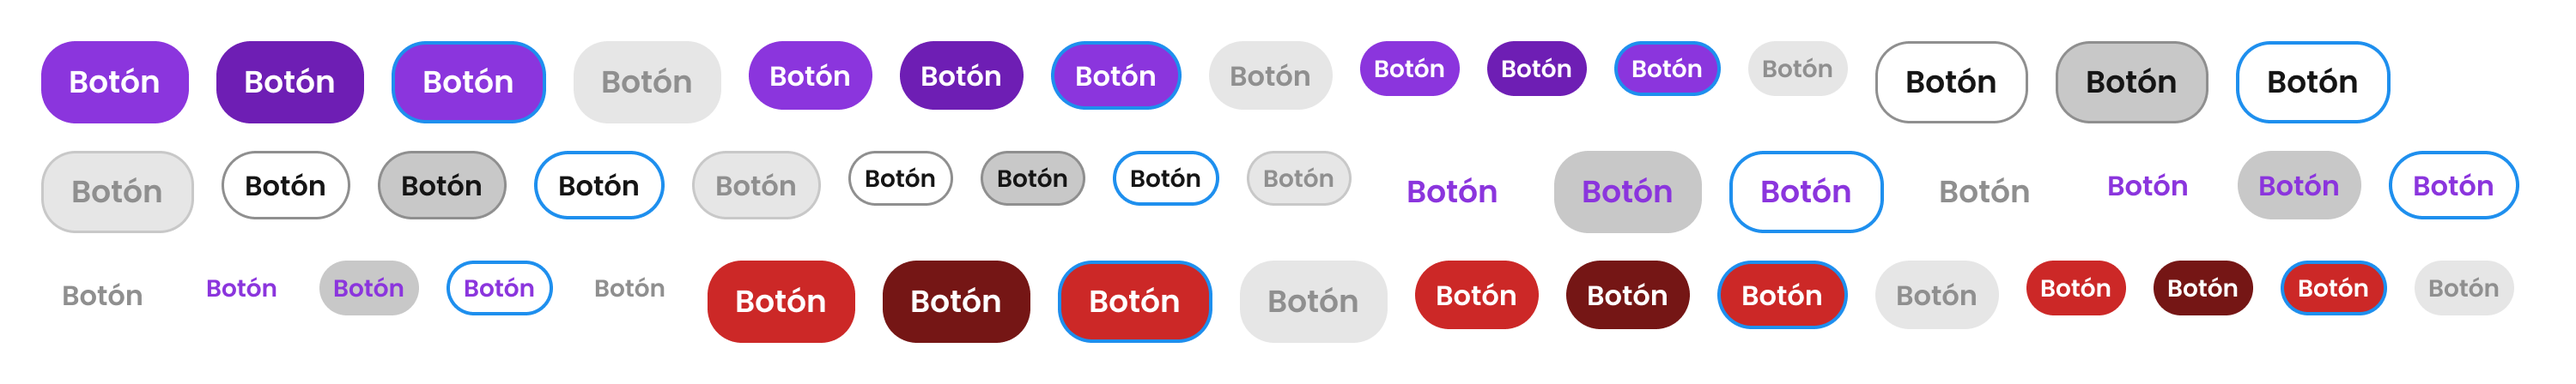
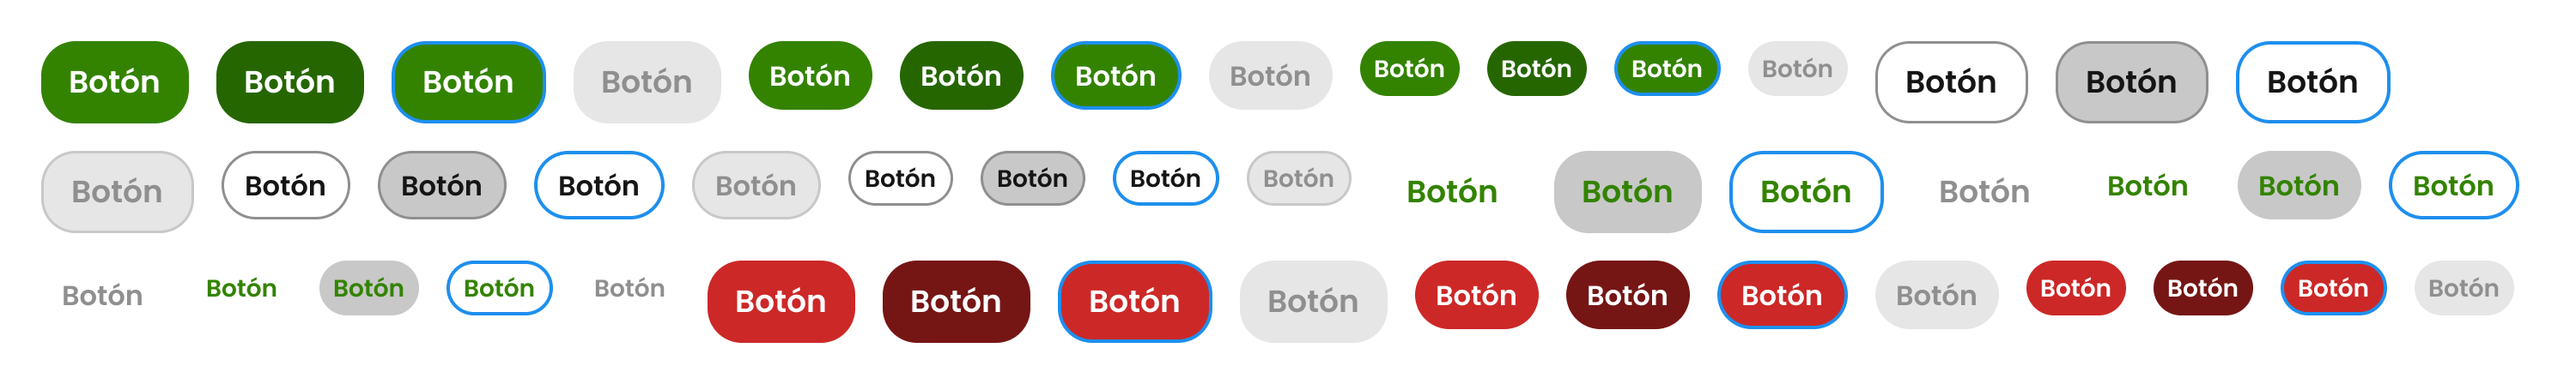
DocSite v1.0.3: Prueba MVP 1
Prueba de actualización: cambio del color principal

diff --git a/entrada/DsTokens.kt b/entrada/DsTokens.kt
@@ -7,15 +7,15 @@ import androidx.compose.ui.unit.dp
 import androidx.compose.ui.unit.sp
 
 object DsTokens {
-    val brand100 = Color(0xFFF4EFFF)
-    val brand200 = Color(0xFFE7DAFF)
-    val brand300 = Color(0xFFD6BCFF)
-    val brand400 = Color(0xFFBE8FFF)
-    val brand500 = Color(0xFFA95AFF)
-    val brand600 = Color(0xFF8B35DD)
-    val brand700 = Color(0xFF6E1EB4)
-    val brand800 = Color(0xFF4D0E82)
-    val brand900 = Color(0xFF310456)
+    val brand100 = Color(0xFFE7F8E1)
+    val brand200 = Color(0xFFCCEDC1)
+    val brand300 = Color(0xFFA5DD92)
+    val brand400 = Color(0xFF73C256)
+    val brand500 = Color(0xFF46A511)
+    val brand600 = Color(0xFF338300)
+    val brand700 = Color(0xFF266600)
+    val brand800 = Color(0xFF184700)
+    val brand900 = Color(0xFF0C2C00)
     val blue100 = Color(0xFFE5F0FC)
     val blue200 = Color(0xFFCAE1FA)
     val blue300 = Color(0xFF9AC9FA)
@@ -138,10 +138,10 @@ object DsTokens {
         val contentSecondaryInverse = Color(0xFFC8C8C8)
         val contentTertiaryInverse = Color(0xFF8F8F8F)
         val contentDisabled = Color(0xFF8F8F8F)
-        val contentBrand = Color(0xFF8B35DD)
-        val contentLink = Color(0xFF8B35DD)
-        val contentLinkHover = Color(0xFF6E1EB4)
-        val contentLinkPressed = Color(0xFF4D0E82)
+        val contentBrand = Color(0xFF338300)
+        val contentLink = Color(0xFF338300)
+        val contentLinkHover = Color(0xFF266600)
+        val contentLinkPressed = Color(0xFF184700)
         val contentNotice = Color(0xFF864303)
         val contentNoticeBold = Color(0xFF633001)
         val contentNegative = Color(0xFFCC2827)
@@ -153,12 +153,12 @@ object DsTokens {
         val backgroundPrimary = Color(0xFFFFFFFF)
         val backgroundHover = Color(0xFFE6E6E6)
         val backgroundPressed = Color(0xFFC8C8C8)
-        val backgroundSelected = Color(0xFFF4EFFF)
+        val backgroundSelected = Color(0xFFE7F8E1)
         val backgroundDisabled = Color(0xFFE6E6E6)
         val backgroundInverse = Color(0xFF151515)
-        val backgroundBrand = Color(0xFF8B35DD)
-        val backgroundBrandHover = Color(0xFF8B35DD)
-        val backgroundBrandPressed = Color(0xFF6E1EB4)
+        val backgroundBrand = Color(0xFF338300)
+        val backgroundBrandHover = Color(0xFF338300)
+        val backgroundBrandPressed = Color(0xFF266600)
         val backgroundInfo = Color(0xFF0574C7)
         val backgroundInfoSubtle = Color(0xFFE5F0FC)
         val backgroundNotice = Color(0xFFD36D02)
@@ -173,7 +173,7 @@ object DsTokens {
         val borderSecondary = Color(0xFFC8C8C8)
         val borderTertiary = Color(0xFFE6E6E6)
         val borderDisabled = Color(0xFFC8C8C8)
-        val borderBrand = Color(0xFFA95AFF)
+        val borderBrand = Color(0xFF46A511)
         val borderInverse = Color(0xFF424242)
         val borderFocus = Color(0xFF1E8FEE)
         val borderInfo = Color(0xFF1E8FEE)
@@ -200,10 +200,10 @@ object DsTokens {
         val contentSecondaryInverse = Color(0xFF5A5A5A)
         val contentTertiaryInverse = Color(0xFF676767)
         val contentDisabled = Color(0xFF5A5A5A)
-        val contentBrand = Color(0xFFD6BCFF)
-        val contentLink = Color(0xFFD6BCFF)
-        val contentLinkHover = Color(0xFFE7DAFF)
-        val contentLinkPressed = Color(0xFFF4EFFF)
+        val contentBrand = Color(0xFFA5DD92)
+        val contentLink = Color(0xFFA5DD92)
+        val contentLinkHover = Color(0xFFCCEDC1)
+        val contentLinkPressed = Color(0xFFE7F8E1)
         val contentNotice = Color(0xFFF0B68F)
         val contentNoticeBold = Color(0xFFF5D7C4)
         val contentNegative = Color(0xFFFEABA1)
@@ -215,12 +215,12 @@ object DsTokens {
         val backgroundPrimary = Color(0xFF0B0B0B)
         val backgroundHover = Color(0xFF151515)
         val backgroundPressed = Color(0xFF2A2A2A)
-        val backgroundSelected = Color(0xFF310456)
+        val backgroundSelected = Color(0xFF0C2C00)
         val backgroundDisabled = Color(0xFF1F1F1F)
         val backgroundInverse = Color(0xFFF5F5F5)
-        val backgroundBrand = Color(0xFFBE8FFF)
-        val backgroundBrandHover = Color(0xFFD6BCFF)
-        val backgroundBrandPressed = Color(0xFFE7DAFF)
+        val backgroundBrand = Color(0xFF73C256)
+        val backgroundBrandHover = Color(0xFFA5DD92)
+        val backgroundBrandPressed = Color(0xFFCCEDC1)
         val backgroundInfo = Color(0xFF5FADF9)
         val backgroundInfoSubtle = Color(0xFF022A4D)
         val backgroundNotice = Color(0xFFE88F4C)
@@ -235,7 +235,7 @@ object DsTokens {
         val borderSecondary = Color(0xFF2A2A2A)
         val borderTertiary = Color(0xFF1F1F1F)
         val borderDisabled = Color(0xFF2A2A2A)
-        val borderBrand = Color(0xFFBE8FFF)
+        val borderBrand = Color(0xFF73C256)
         val borderInverse = Color(0xFFABABAB)
         val borderFocus = Color(0xFF5FADF9)
         val borderInfo = Color(0xFF5FADF9)

diff --git a/entrada/DSTokens.swift b/entrada/DSTokens.swift
@@ -18,15 +18,15 @@ extension Color {
 
 // Colores primitivos
 extension Color {
-    public static let brand100 = Color(argb: 0xFFF4EFFF)
-    public static let brand200 = Color(argb: 0xFFE7DAFF)
-    public static let brand300 = Color(argb: 0xFFD6BCFF)
-    public static let brand400 = Color(argb: 0xFFBE8FFF)
-    public static let brand500 = Color(argb: 0xFFA95AFF)
-    public static let brand600 = Color(argb: 0xFF8B35DD)
-    public static let brand700 = Color(argb: 0xFF6E1EB4)
-    public static let brand800 = Color(argb: 0xFF4D0E82)
-    public static let brand900 = Color(argb: 0xFF310456)
+    public static let brand100 = Color(argb: 0xFFE7F8E1)
+    public static let brand200 = Color(argb: 0xFFCCEDC1)
+    public static let brand300 = Color(argb: 0xFFA5DD92)
+    public static let brand400 = Color(argb: 0xFF73C256)
+    public static let brand500 = Color(argb: 0xFF46A511)
+    public static let brand600 = Color(argb: 0xFF338300)
+    public static let brand700 = Color(argb: 0xFF266600)
+    public static let brand800 = Color(argb: 0xFF184700)
+    public static let brand900 = Color(argb: 0xFF0C2C00)
     public static let blue100 = Color(argb: 0xFFE5F0FC)
     public static let blue200 = Color(argb: 0xFFCAE1FA)
     public static let blue300 = Color(argb: 0xFF9AC9FA)
@@ -151,10 +151,10 @@ extension Color {
     public static let contentSecondaryInverse = Color(light: 0xFFC8C8C8, dark: 0xFF5A5A5A)
     public static let contentTertiaryInverse = Color(light: 0xFF8F8F8F, dark: 0xFF676767)
     public static let contentDisabled = Color(light: 0xFF8F8F8F, dark: 0xFF5A5A5A)
-    public static let contentBrand = Color(light: 0xFF8B35DD, dark: 0xFFD6BCFF)
-    public static let contentLink = Color(light: 0xFF8B35DD, dark: 0xFFD6BCFF)
-    public static let contentLinkHover = Color(light: 0xFF6E1EB4, dark: 0xFFE7DAFF)
-    public static let contentLinkPressed = Color(light: 0xFF4D0E82, dark: 0xFFF4EFFF)
+    public static let contentBrand = Color(light: 0xFF338300, dark: 0xFFA5DD92)
+    public static let contentLink = Color(light: 0xFF338300, dark: 0xFFA5DD92)
+    public static let contentLinkHover = Color(light: 0xFF266600, dark: 0xFFCCEDC1)
+    public static let contentLinkPressed = Color(light: 0xFF184700, dark: 0xFFE7F8E1)
     public static let contentNotice = Color(light: 0xFF864303, dark: 0xFFF0B68F)
     public static let contentNoticeBold = Color(light: 0xFF633001, dark: 0xFFF5D7C4)
     public static let contentNegative = Color(light: 0xFFCC2827, dark: 0xFFFEABA1)
@@ -166,12 +166,12 @@ extension Color {
     public static let backgroundPrimary = Color(light: 0xFFFFFFFF, dark: 0xFF0B0B0B)
     public static let backgroundHover = Color(light: 0xFFE6E6E6, dark: 0xFF151515)
     public static let backgroundPressed = Color(light: 0xFFC8C8C8, dark: 0xFF2A2A2A)
-    public static let backgroundSelected = Color(light: 0xFFF4EFFF, dark: 0xFF310456)
+    public static let backgroundSelected = Color(light: 0xFFE7F8E1, dark: 0xFF0C2C00)
     public static let backgroundDisabled = Color(light: 0xFFE6E6E6, dark: 0xFF1F1F1F)
     public static let backgroundInverse = Color(light: 0xFF151515, dark: 0xFFF5F5F5)
-    public static let backgroundBrand = Color(light: 0xFF8B35DD, dark: 0xFFBE8FFF)
-    public static let backgroundBrandHover = Color(light: 0xFF8B35DD, dark: 0xFFD6BCFF)
-    public static let backgroundBrandPressed = Color(light: 0xFF6E1EB4, dark: 0xFFE7DAFF)
+    public static let backgroundBrand = Color(light: 0xFF338300, dark: 0xFF73C256)
+    public static let backgroundBrandHover = Color(light: 0xFF338300, dark: 0xFFA5DD92)
+    public static let backgroundBrandPressed = Color(light: 0xFF266600, dark: 0xFFCCEDC1)
     public static let backgroundInfo = Color(light: 0xFF0574C7, dark: 0xFF5FADF9)
     public static let backgroundInfoSubtle = Color(light: 0xFFE5F0FC, dark: 0xFF022A4D)
     public static let backgroundNotice = Color(light: 0xFFD36D02, dark: 0xFFE88F4C)
@@ -186,7 +186,7 @@ extension Color {
     public static let borderSecondary = Color(light: 0xFFC8C8C8, dark: 0xFF2A2A2A)
     public static let borderTertiary = Color(light: 0xFFE6E6E6, dark: 0xFF1F1F1F)
     public static let borderDisabled = Color(light: 0xFFC8C8C8, dark: 0xFF2A2A2A)
-    public static let borderBrand = Color(light: 0xFFA95AFF, dark: 0xFFBE8FFF)
+    public static let borderBrand = Color(light: 0xFF46A511, dark: 0xFF73C256)
     public static let borderInverse = Color(light: 0xFF424242, dark: 0xFFABABAB)
     public static let borderFocus = Color(light: 0xFF1E8FEE, dark: 0xFF5FADF9)
     public static let borderInfo = Color(light: 0xFF1E8FEE, dark: 0xFF5FADF9)

diff --git a/entrada/tailwind.css b/entrada/tailwind.css
@@ -1,14 +1,14 @@
 /* Generado por DSGBR. Importa tokens.css antes que este archivo. */
 @theme {
-  --color-brand-100: #f4efff;
-  --color-brand-200: #e7daff;
-  --color-brand-300: #d6bcff;
-  --color-brand-400: #be8fff;
-  --color-brand-500: #a95aff;
-  --color-brand-600: #8b35dd;
-  --color-brand-700: #6e1eb4;
-  --color-brand-800: #4d0e82;
-  --color-brand-900: #310456;
+  --color-brand-100: #e7f8e1;
+  --color-brand-200: #ccedc1;
+  --color-brand-300: #a5dd92;
+  --color-brand-400: #73c256;
+  --color-brand-500: #46a511;
+  --color-brand-600: #338300;
+  --color-brand-700: #266600;
+  --color-brand-800: #184700;
+  --color-brand-900: #0c2c00;
   --color-blue-100: #e5f0fc;
   --color-blue-200: #cae1fa;
   --color-blue-300: #9ac9fa;

diff --git a/entrada/tokens.css b/entrada/tokens.css
@@ -1,15 +1,15 @@
 /* Generado por DSGBR. No editar a mano. */
 
 :root {
-  --color-brand-100: #f4efff;
-  --color-brand-200: #e7daff;
-  --color-brand-300: #d6bcff;
-  --color-brand-400: #be8fff;
-  --color-brand-500: #a95aff;
-  --color-brand-600: #8b35dd;
-  --color-brand-700: #6e1eb4;
-  --color-brand-800: #4d0e82;
-  --color-brand-900: #310456;
+  --color-brand-100: #e7f8e1;
+  --color-brand-200: #ccedc1;
+  --color-brand-300: #a5dd92;
+  --color-brand-400: #73c256;
+  --color-brand-500: #46a511;
+  --color-brand-600: #338300;
+  --color-brand-700: #266600;
+  --color-brand-800: #184700;
+  --color-brand-900: #0c2c00;
   --color-blue-100: #e5f0fc;
   --color-blue-200: #cae1fa;
   --color-blue-300: #9ac9fa;
